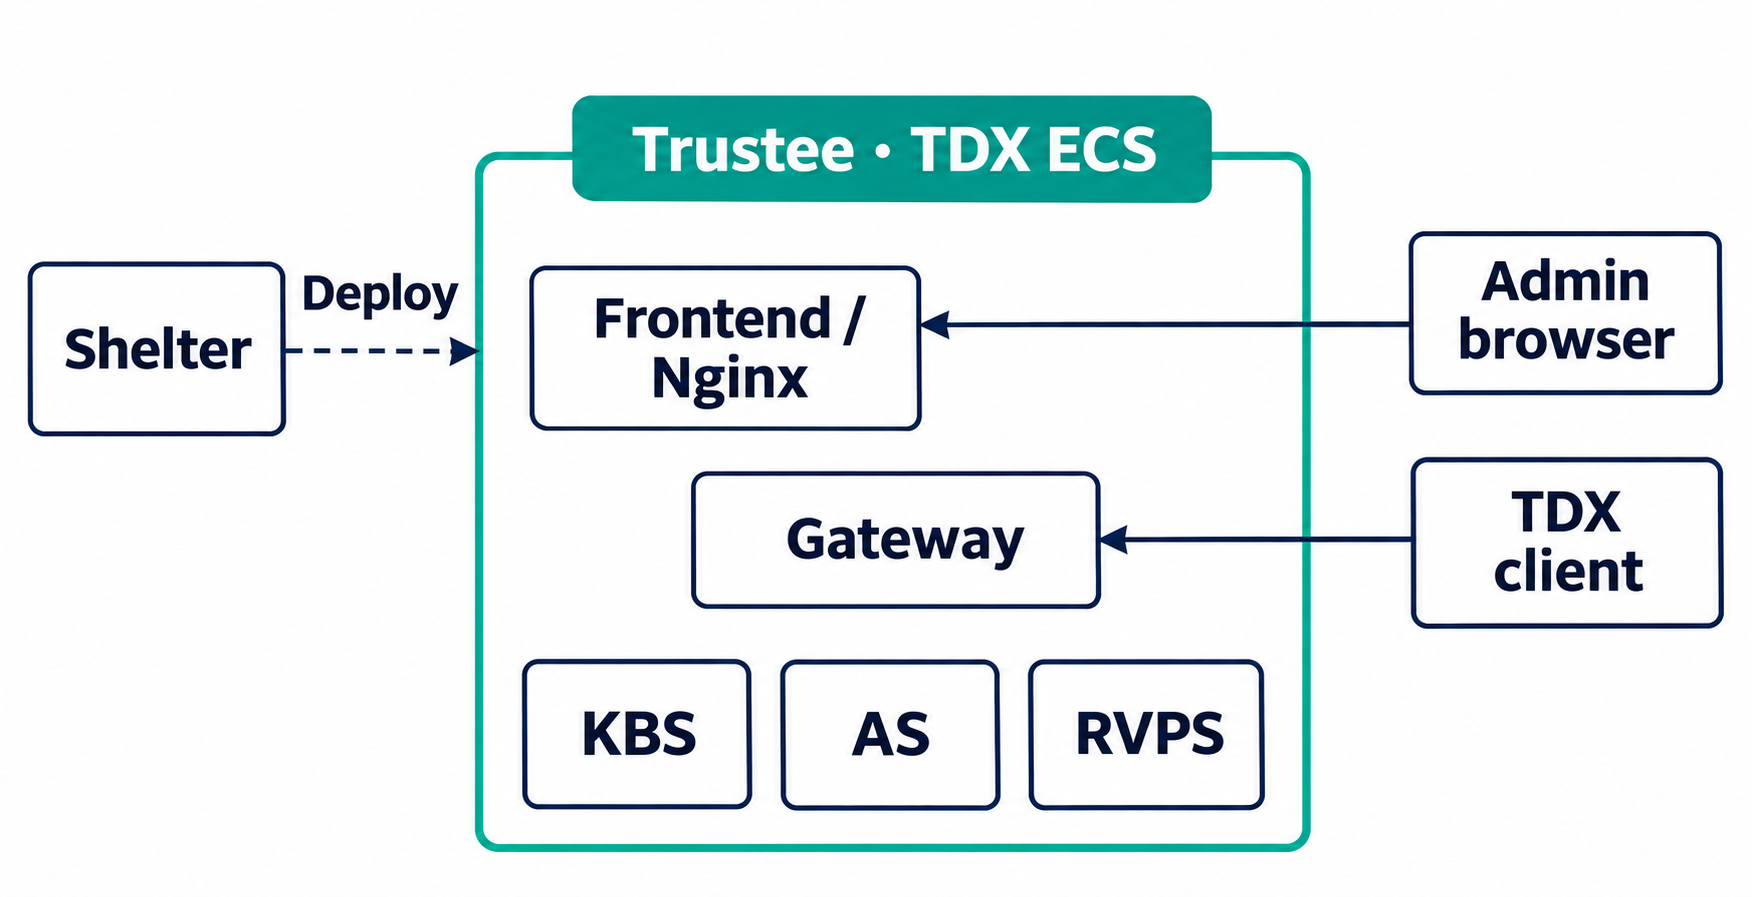
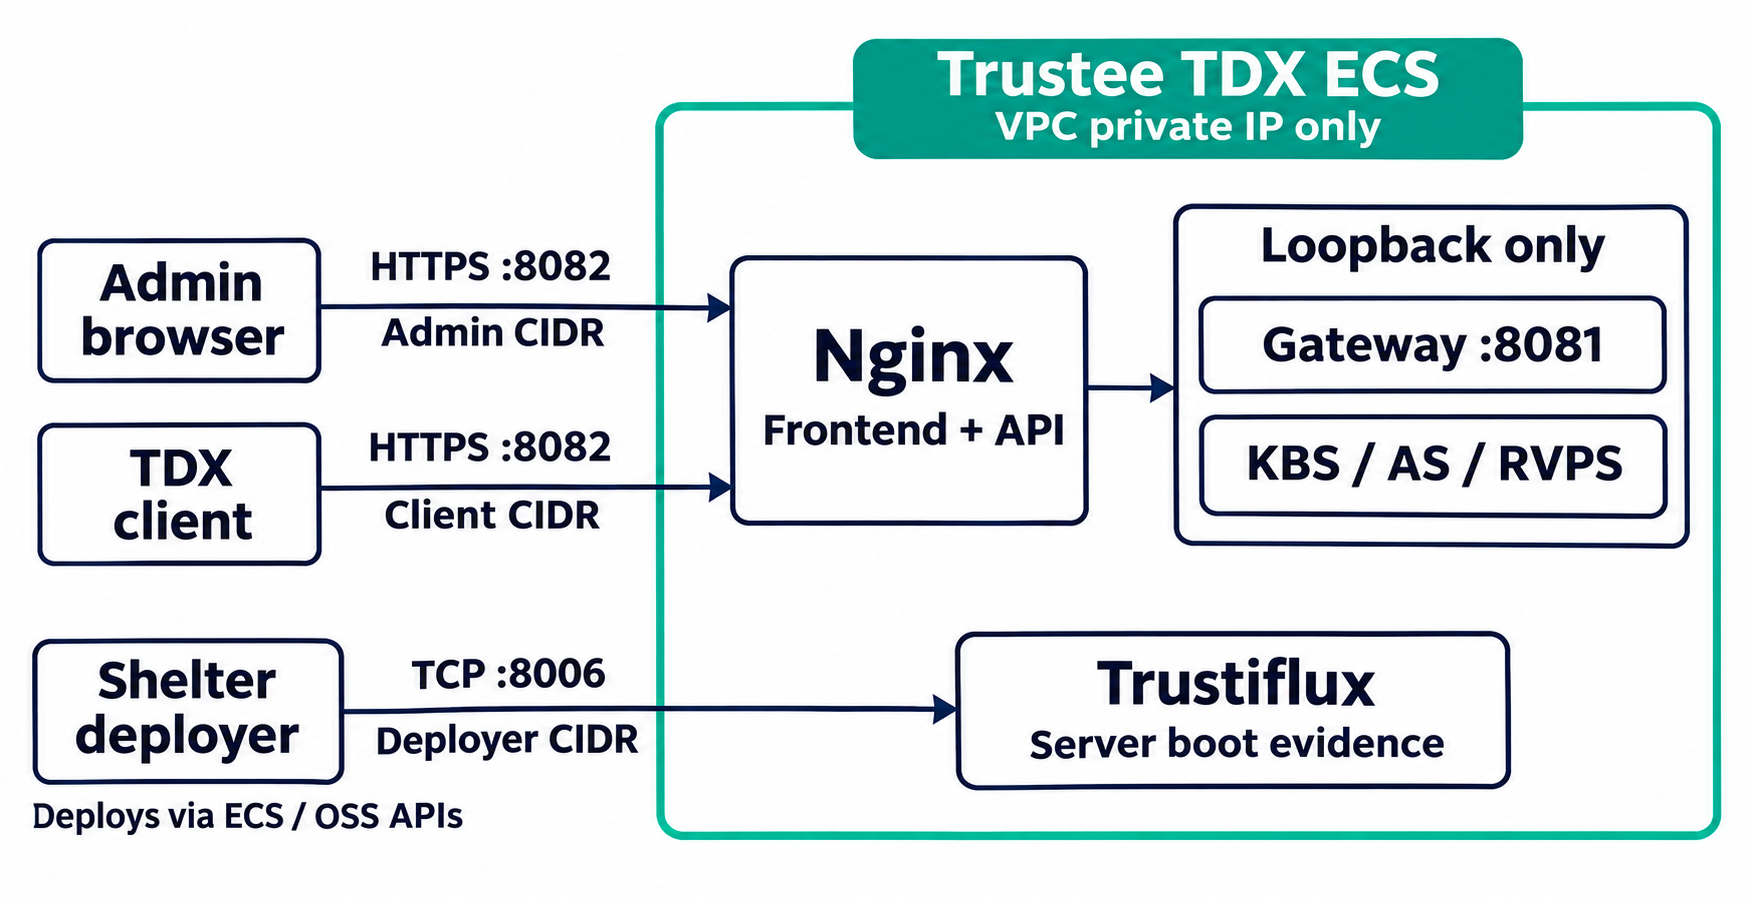
shelter: show private network paths in the architecture diagram

Changed region(s): [[0.0, 0.0312, 0.9863, 0.9677]]

diff --git a/shelter/ARCHITECTURE.md b/shelter/ARCHITECTURE.md
@@ -1,8 +1,8 @@
 # Trustee on TDX ECS
 
-![Shelter deploys a Trustee TDX ECS serving a browser and a TDX client](docs/architecture.png)
+![Trustee on a private TDX ECS with browser and client access through Nginx and a separate evidence endpoint for Shelter](docs/architecture.png)
 
-图中实线表示逻辑调用。浏览器和 TDX 客户端的网络入口均为实例的 Nginx HTTPS 端口。Gateway 及其后端经实例内网栈通信。
+Trustee ECS 只分配 VPC 私网 IP。浏览器和 TDX 客户端都通过 HTTPS 8082 连接 Nginx，按来源 CIDR 分别放行。Gateway、KBS、AS 和 RVPS 通过来宾内的回环地址通信。Shelter 部署机通过独立的 TCP 8006 端口获取服务端启动证明证据。
 
 | 位置 | 职责 |
 | --- | --- |
